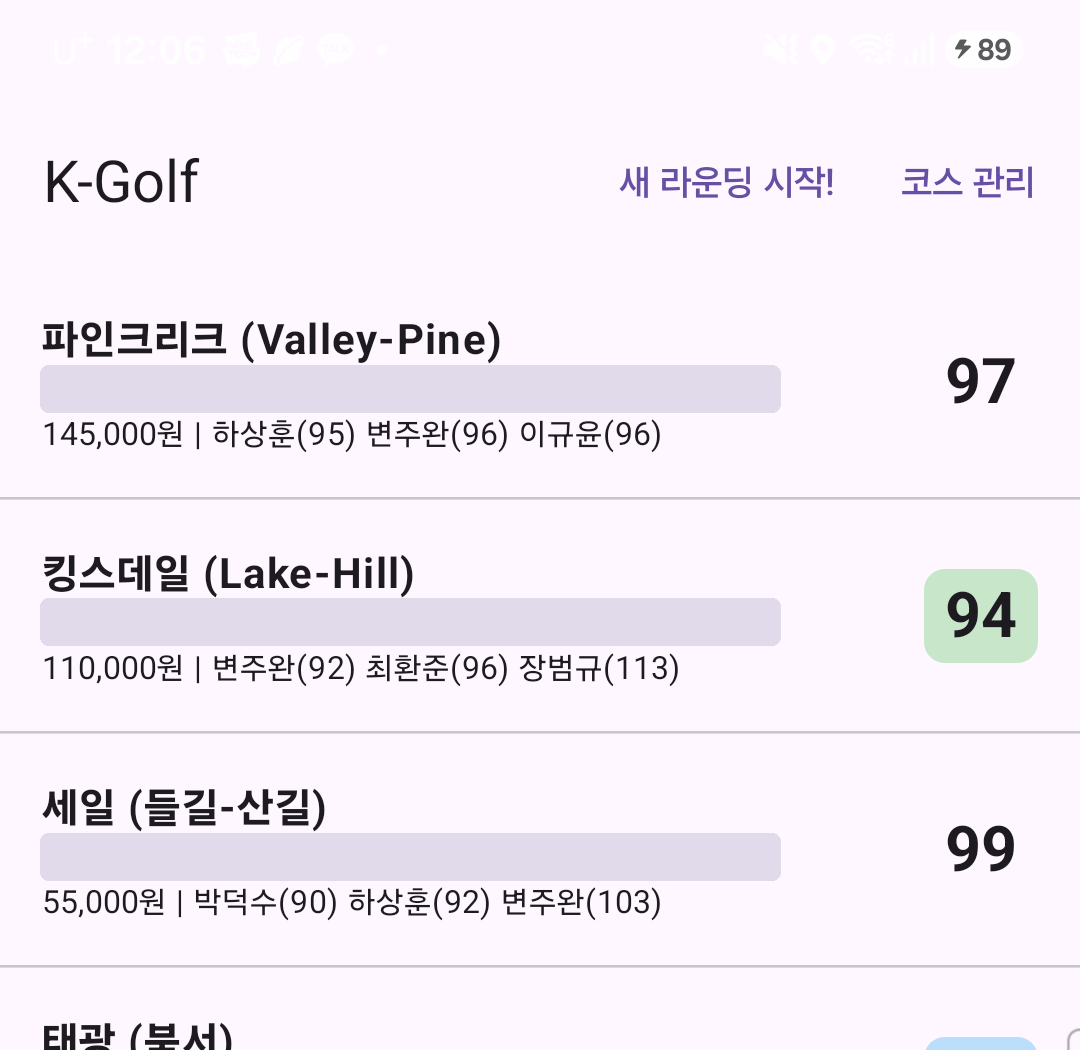
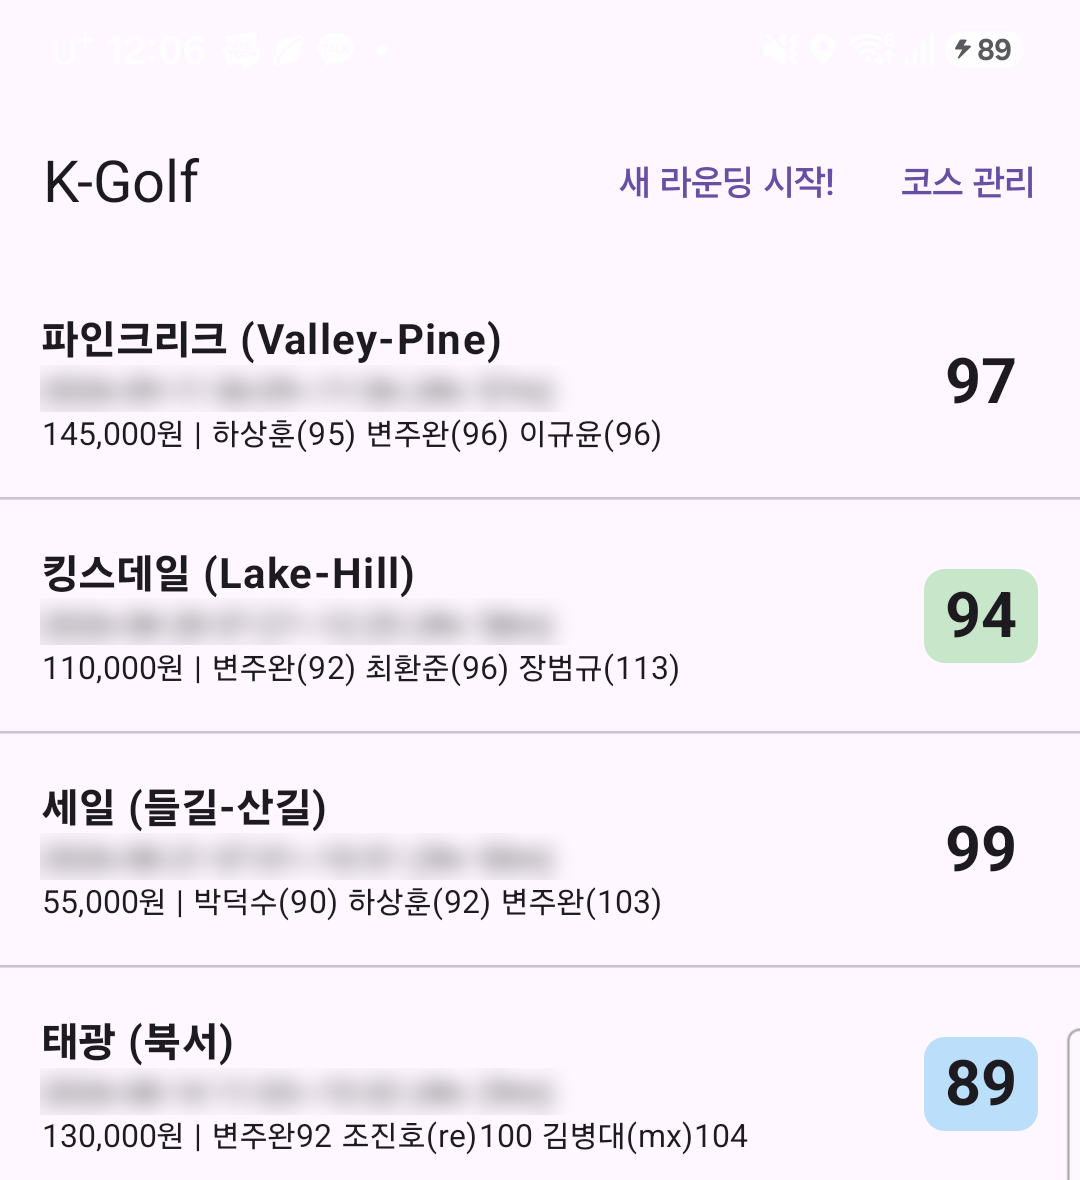
docs: 사용 설명서 홈 화면 캡처 - 태광 점수 노출, 날짜는 흐리게 처리
Claude-Session: https://claude.ai/code/session_01X7KasCSYPtL7EZstLv3KgP

diff --git a/docs/user-guide.md b/docs/user-guide.md
@@ -61,7 +61,7 @@
 
 ![홈 화면, 완료된 라운드 목록](user-guide/home.png)
 
-*(위 화면은 실제 기록 예시이며, 날짜만 가렸어요.)*
+*(위 화면은 실제 기록 예시이며, 날짜만 알아보기 어렵게 흐리게 처리했어요.)*
 
 ---
 
